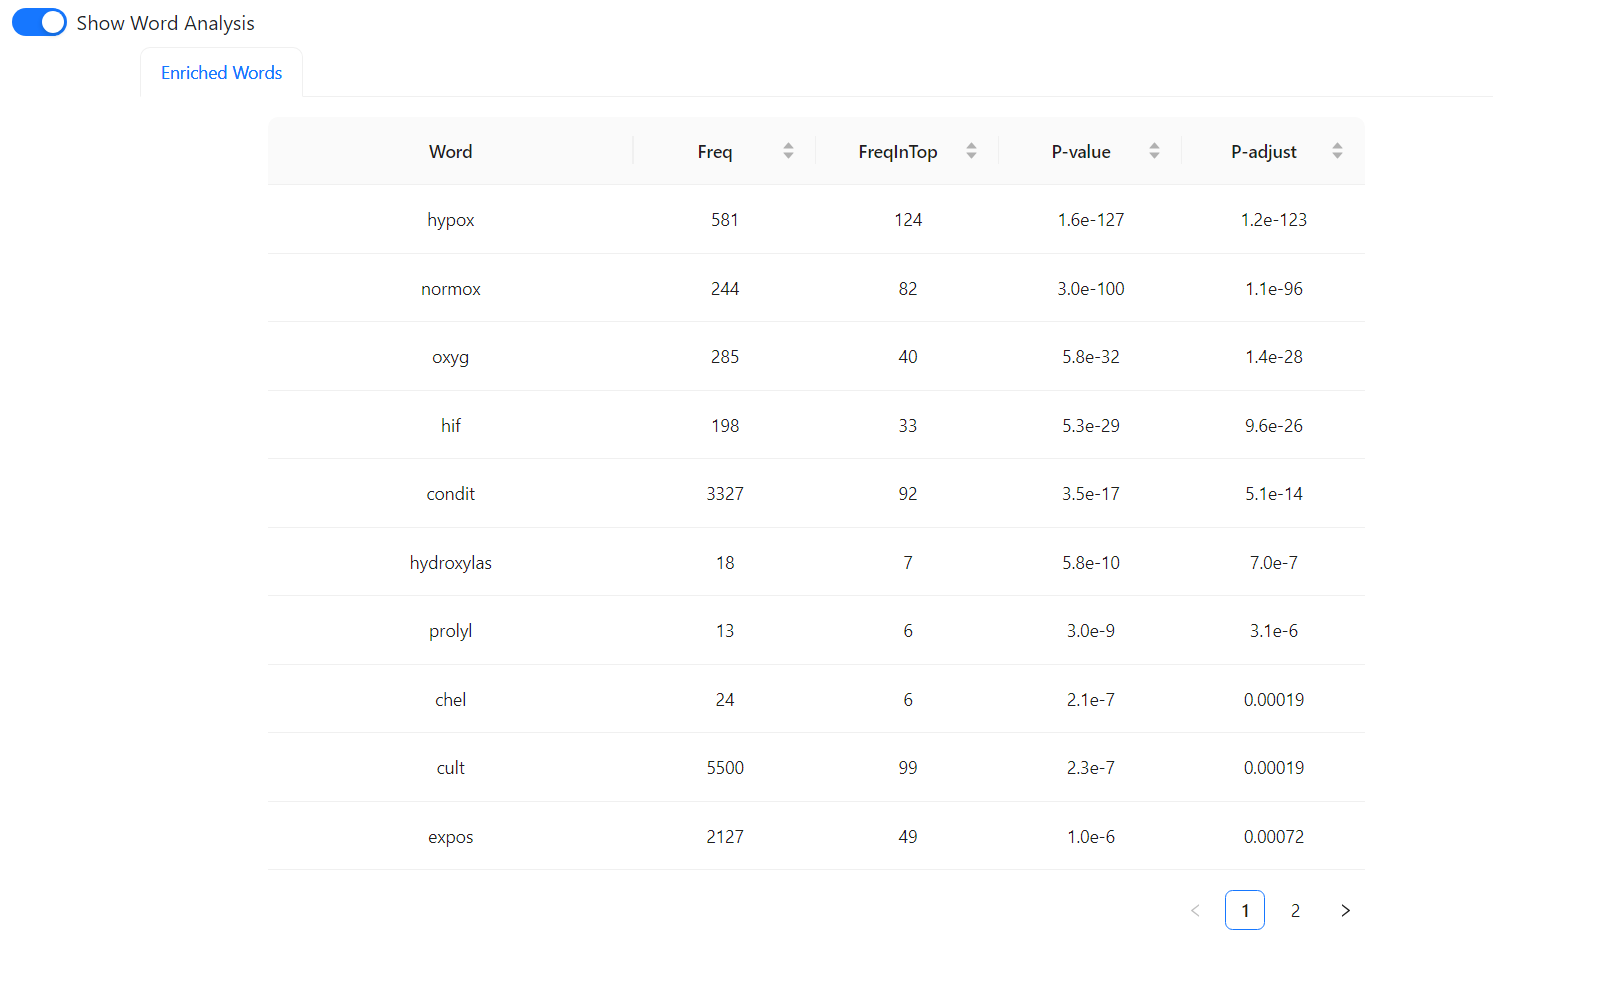
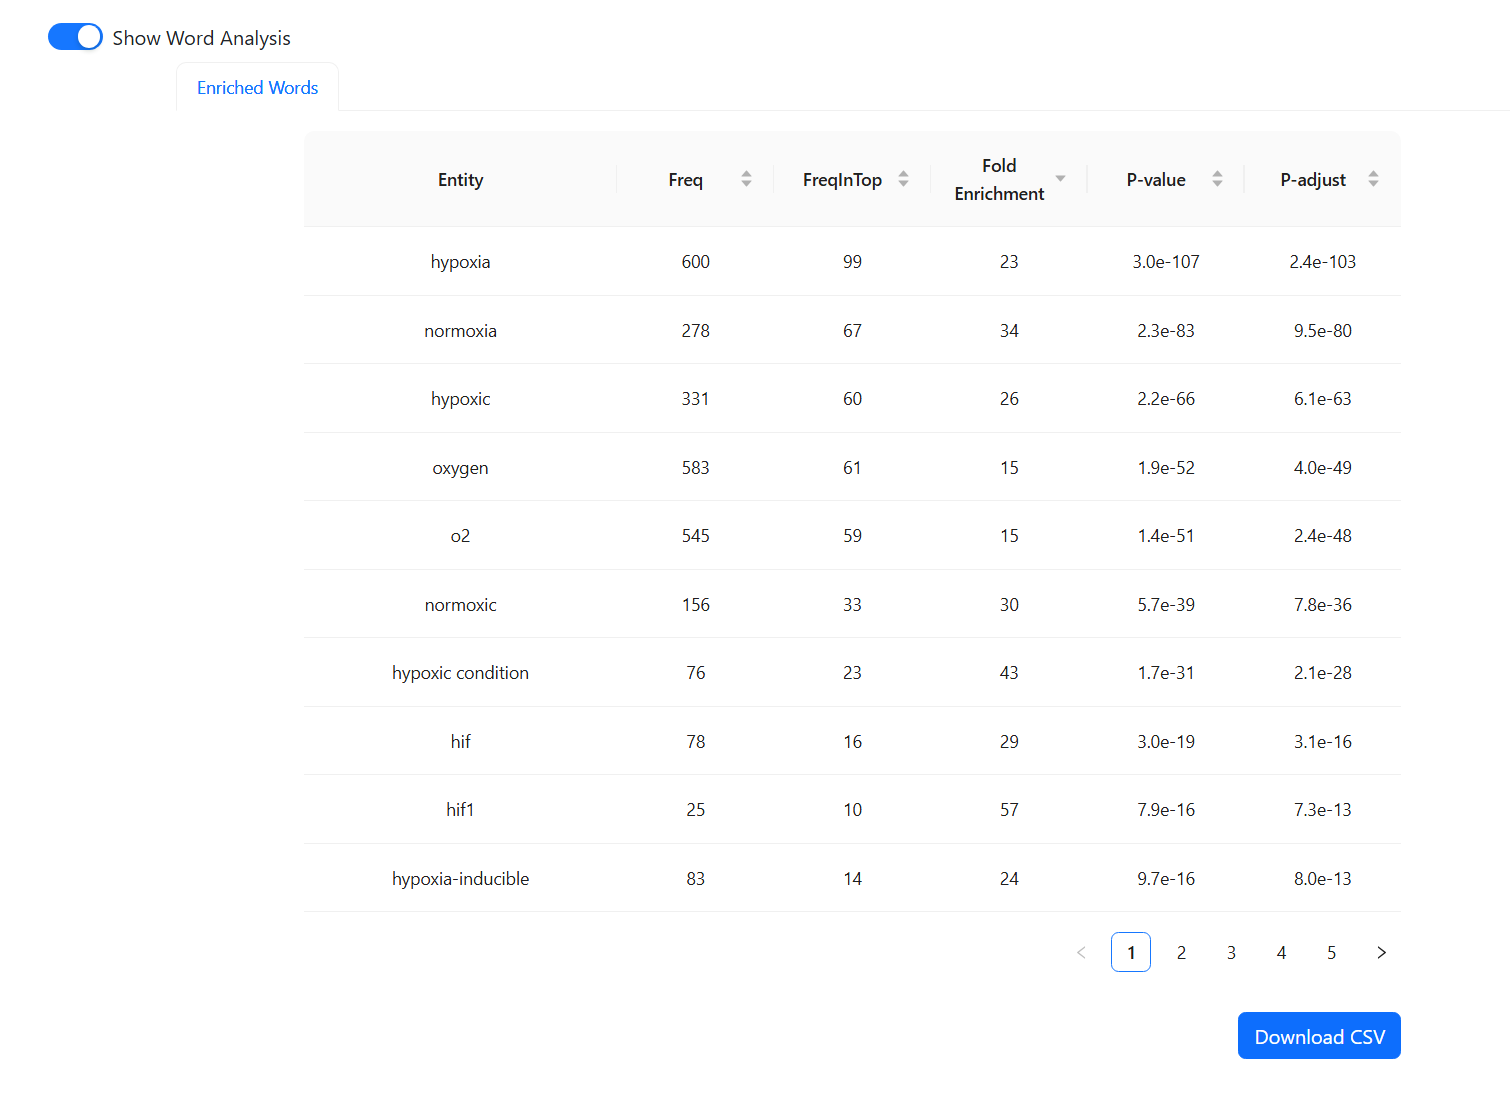
Docs were updated to sync with latest release of CORESH app

diff --git a/pages/output.md b/pages/output.md
@@ -1,6 +1,8 @@
 # Search Results
 
-The **Search Results** section provides detailed findings from your gene query, organized into two key areas: **Enriched Words** and **Gene Set Records**.
+The **Search Results** section provides detailed findings from your gene query, organized into two key areas: **Enriched Words** and **Matched Experiments**. The interface includes tools for exploration, filtering, and exporting results for further analysis.
+
+---
 
 ## Enriched Words
 
@@ -9,50 +11,65 @@ The **Search Results** section provides detailed findings from your gene query, 
 :align: center
 ```
 
-This table highlights words or terms that are significantly associated with the submitted gene list. The analysis is based on the **top 300 records** from ranked experiment results, ensuring that the most relevant and statistically significant data is used.
+This table highlights key terms that are significantly associated with the submitted gene list. The analysis is based on the **top 300 matched experiments** from the search results, ensuring that only the most relevant and statistically significant terms are shown.
 
-Each word is displayed with the following columns:
+### Statistical Methods:
+- **Statistical Test**: The exact Fisher test is used to assess the significance of term enrichment.
+- **Multiple Comparison Adjustment**: The Benjamini-Hochberg (BH) procedure is applied to control for false discovery rates, ensuring robust results.
+
+### Table Columns:
+- **Entity**: The enriched word or term.
 - **Freq**: The total frequency of the term across all available experiments in the database.
-- **FreqInTop**: The frequency of the term within the top 300 ranked experiments from the dataset.
-- **P-value** and **P-adjust**: These values indicate the statistical significance of the word's association with your gene list. Lower values reflect stronger relevance. The exact Fisher test is used for this analysis to determine statistical significance.
+- **FreqInTop**: The frequency of the term within the **top 300 matched experiments**.
+- **Fold Enrichment**: The fold increase in term frequency in the top-ranked experiments compared to its background frequency in all experiments.
+- **P-value**: The raw significance of the term's association with your gene list. Lower values indicate stronger associations.
+- **P-adjust**: Adjusted P-value (using BH adjustment) for multiple comparisons, providing a more stringent significance threshold.
 
-This section helps you identify common biological themes or experimental conditions related to your gene list.
+### Features:
+- **Show Word Analysis Toggle**: Toggle to show or hide the enriched words table.
+- **Download CSV**: Export the enriched words table for offline analysis.
 
-## Gene Set Records
+This section is crucial for identifying biological themes or experimental conditions related to the submitted gene list, based on the most relevant experiments.
+
+---
+
+## Matched Experiments
 
 ```{image} ../images/records.png
 :width: 720px
 :align: center
 ```
 
-This section lists the most relevant gene sets or datasets that match your query. For each record, the following information is provided:
+This section lists experimental datasets from the **Gene Expression Omnibus (GEO)** database that are most relevant to your query. Each experiment provides insights into how your gene set aligns with existing gene expression data.
 
-- **Rank**: The order of relevance of the dataset in relation to your gene list.
-- **Title**: The title of the dataset, as listed in the NCBI GEO database.
-- **pctVar**: Represents the percentage of explained variance in the entire dataset based on the provided gene set. It shows how much of the dataset's variability is accounted for by your gene set.
-- **log10 P-adjust**: The logarithm (base 10) of the adjusted p-value, where more negative values indicate higher statistical significance.
-- **GSE**: A direct link to the Gene Expression Omnibus (GEO) database for further exploration of the dataset.
+### Table Columns:
+- **Rank**: The relevance rank of the experiment relative to your query.
+- **Title**: The title of the dataset, summarizing the experiment. 
+- **Size**: The number of genes in the dataset.
+- **pctVar**: Percentage of explained variance in the dataset accounted for by the submitted gene list. This shows the impact of your gene set on the dataset's variability.
+- **log10_P-adjust**: The logarithm (base 10) of the adjusted P-value, where more negative values indicate higher statistical significance.
+- **GPL**: The platform ID used for the experiment (e.g., microarray or sequencing platform).
+- **GSE**: A clickable link to the corresponding experiment in the GEO database for further exploration.
 
-### Search Records
-
-The **Search Records** field allows you to quickly filter through the gene set records by entering relevant keywords or GSE IDs. This feature helps you efficiently locate specific datasets. This search functionality makes it easier to find relevant data, especially when dealing with a large number of records.
-
-### Expandable Gene Set Records
+### Expanded Details:
 
 ```{image} ../images/expandable_records.png
 :width: 720px
 :align: center
 ```
 
+- **Expanded Summary**: Click the "+" icon next to each record to view additional details, such as positively and negatively correlated words, experiment summaries, and relevant metadata.
+- **Explore Gene Expression Data**: Direct links allow users to explore experiment data in detail using external tools like the [Phantasus Web App](https://elifesciences.org/articles/85722) for interactive visualization and analysis.
 
-In the **Gene Set Records** section, each record has a plus ("+") icon next to it. Clicking this icon expands the entry to show more details about the experiment.
+### Features:
+- **Search Records**: A search bar lets users filter matched experiments by keywords, titles, or GSE IDs.
+- **Pagination**: Navigate large result sets using pagination, with customizable entries per page.
+- **Download CSV**: Export the complete table of matched experiments for external analysis.
 
-- **Expanded Summary**: Once expanded, a brief summary of the experiment is displayed, providing additional insights into the study, such as specific gene expression changes and experimental conditions.
-  
-- **Phantasus Web App Link**: In the expanded view, an icon links to the [Phantasus](https://elifesciences.org/articles/85722) web application, which allows you to visually explore the dataset. Phantasus is a powerful tool for interactive data exploration and visualization, enabling further in-depth analysis of the gene expression data.
-
-This functionality enables you to quickly access both a summary of the experiment and additional tools for further investigation.
+---
 
 ### Conclusion
 
-The **Search Results** section delivers a detailed analysis of enriched terms and associated gene sets, providing valuable insights into gene coregulation patterns and related experimental data. With features like keyword search, expandable summaries, and links to visual exploration tools, it helps streamline the analysis process for in-depth gene expression exploration.
+The **Search Results** section, with its **Enriched Words** and **Matched Experiments** subsections, provides a comprehensive analysis of your gene query. The **Enriched Words** analysis focuses on the **top 300 matched datasets**, identifying statistically significant biological terms or experimental conditions using the exact Fisher test with BH adjustment for multiple comparisons. The **Matched Experiments** section connects your gene set to the most relevant GEO datasets, offering valuable insights into gene coregulation patterns and experimental data. 
+
+Features like keyword search, expandable summaries, and data export ensure that this tool supports both high-level insights and in-depth exploration for gene expression analysis.

diff --git a/pages/input.md b/pages/input.md
@@ -1,43 +1,59 @@
 # Search Input
 
-Here are the main input search interface components.
+The **Search Input** section allows users to define their query parameters and input a gene list for analysis.
+
+## Input Interface Overview
+
+The input interface consists of the following components:
 ```{image} ../images/input.png
 :width: 720px
 :align: center
 ```
 
-## Query Species
+### Query Species
 
-The Query Species radio button lets you select the organism corresponding to your gene list.
+The **Query Species** radio button lets you select the organism corresponding to your gene list. Options include:
 
-- Homo sapiens: Choose this if your genes are from humans.
-- Mus musculus: Choose this if your genes are from mice.
+- **Homo sapiens**: Select this if your genes are from humans.
+- **Mus musculus**: Select this if your genes are from mice.
 
-## Database Species
+### Database Species
 
-The Database Species option controls which organism's database will be used for the coregulation search.
+The **Database Species** option specifies the organism's database that will be queried for coregulation analysis. Options include:
 
-- Homo sapiens: Select this to search within human experiment data.
-- Mus musculus: Select this to search within mouse experiment data.
+- **Homo sapiens**: Select this option to search within human experimental data available in the Gene Expression Omnibus (GEO) database. This specifies that only datasets from human experiments will be used for the coregulation search.
 
-## Gene List
+- **Mus musculus**: Select this option to search within mouse experimental data available in the Gene Expression Omnibus (GEO) database. This ensures that the search is limited to datasets derived from mouse experiments. 
 
-The Gene List field is where you input the genes for your query.
+These options control the scope of the query by defining the species-specific experiments in the GEO database that will be used to identify relevant gene coregulation patterns.
 
-- The search engine accepts Gene Symbols, Gene Entrez IDs, and RefSeqGene IDs.
-- Make sure to enter each gene on a new line, or separate them with spaces or tabs.
+### Gene List
 
-## Input Example
+The **Gene List** field is where you input the genes for your query. Accepted formats include:
 
-Here is the possible input example.
+- **Gene Symbols**, **Gene Entrez IDs**, and **RefSeqGene IDs**.
+- Input format: Enter each gene on a new line, or separate them with spaces or tabs.
 
-- Query Species: Homo sapiens
-- Database Species: Homo sapiens
+This flexible input format ensures compatibility with a variety of gene identifiers.
 
-Gene List:
+### Example Feature
+
+The tool includes an "Example" link that populates the query form with a predefined gene list and settings. This feature provides a quick and convenient way to test the tool's functionality or explore its features.
+
+Example configuration:
+
+- **Query Species**: Homo sapiens
+- **Database Species**: Homo sapiens
+
+#### Gene List Example:
+
 ```
 ACKR3 ADM ADORA2B AK4 AKAP12 ALDOA ALDOB ALDOC AMPD3 ANGPTL4 ANKZF1 ANXA2 ATF3 ATP7A B3GALT6 B4GALNT2 BCAN BCL2 BGN BHLHE40 BNIP3L BRS3 BTG1 CA12 CASP6 CAV1 CAVIN1 CAVIN3 CCN1 CCN2 CCN5 CCNG2 CDKN1A CDKN1B CDKN1C CHST2 CHST3 CITED2 COL5A1 CP CSRP2 CXCR4 DCN DDIT3 DDIT4 DPYSL4 DTNA DUSP1 EDN2 EFNA1 EFNA3 EGFR ENO1 ENO2 ENO3 ERO1A ERRFI1 ETS1 EXT1 F3 FAM162A FBP1 FOS FOSL2 FOXO3 GAA GALK1 GAPDH GAPDHS GBE1 GCK GCNT2 GLRX GPC1 GPC3 GPC4 GPI GRHPR GYS1 HAS1 HDLBP HEXA HK1 HK2 HMOX1 HOXB9 HS3ST1 HSPA5 IDS IER3 IGFBP1 IGFBP3 IL6 ILVBL INHA IRS2 ISG20 JMJD6 JUN KDELR3 KDM3A KIF5A KLF6 KLF7 KLHL24 LALBA LARGE1 LDHA LDHC LOX LXN MAFF MAP3K1 MIF MT1E MT2A MXI1 MYH9 NAGK NCAN NDRG1 NDST1 NDST2 NEDD4L NFIL3 NOCT NR3C1 P4HA1 P4HA2 PAM PCK1 PDGFB PDK1 PDK3 PFKFB3 PFKL PFKP PGAM2 PGF PGK1 PGM1 PGM2 PHKG1 PIM1 PKLR PKP1 PLAC8 PLAUR PLIN2 PNRC1 PPARGC1A PPFIA4 PPP1R15A PPP1R3C PRDX5 PRKCA PYGM RBPJ RORA RRAGD S100A4 SAP30 SCARB1 SDC2 SDC3 SDC4 SELENBP1 SERPINE1 SIAH2 SLC25A1 SLC2A1 SLC2A3 SLC2A5 SLC37A4 SLC6A6 SRPX STBD1 STC1 STC2 SULT2B1 TES TGFB3 TGFBI TGM2 TIPARP TKTL1 TMEM45A TNFAIP3 TPBG TPD52 TPI1 TPST2 UGP2 VEGFA VHL VLDLR WSB1 XPNPEP1 ZFP36 ZNF292
 ```
 
-This gene list represents a set of genes involved in various biological processes, many of which are associated with the Human Gene Set: HALLMARK_HYPOXIA. 
-These genes are commonly studied in the context of the cellular response to low oxygen levels (hypoxia), and the gene set is used to identify patterns of gene expression that are activated under hypoxic conditions.
+This example list contains genes from the **Human Gene Set: HALLMARK_HYPOXIA**, which are associated with biological processes such as the cellular response to low oxygen levels (hypoxia). This example is useful for identifying gene expression patterns activated under hypoxic conditions.
+
+### Search Button
+
+After filling in the form, clicking the **Search** button starts the analysis. The input data is processed, and the results are presented in the **Search Results** section.
+
